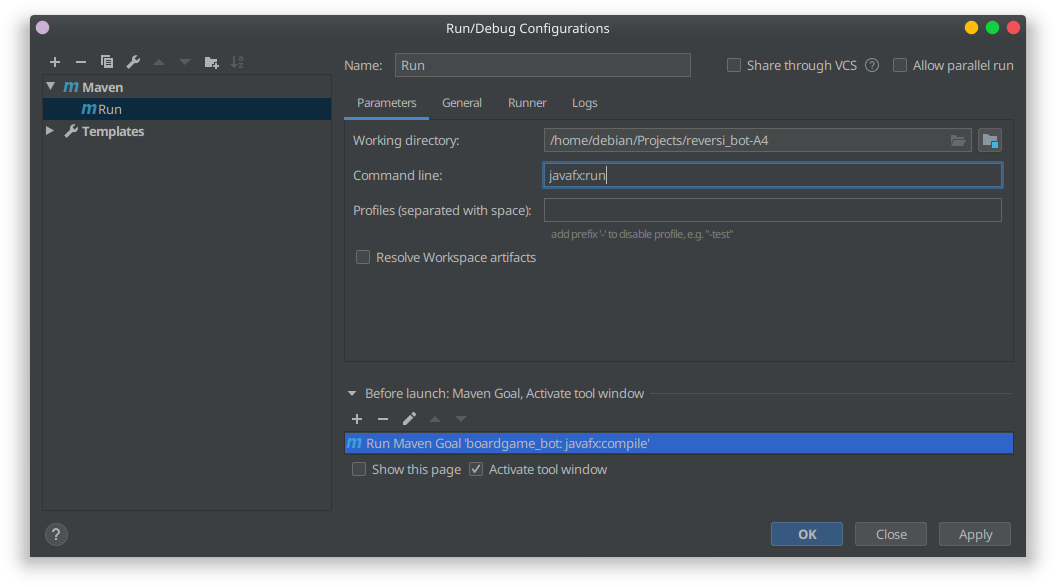
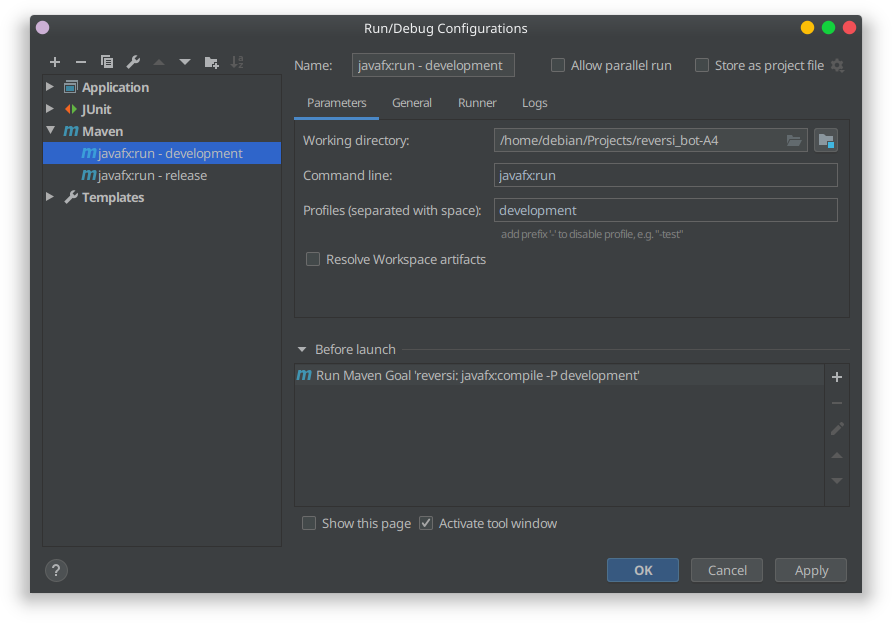
Update README.md

diff --git a/README.md b/README.md
@@ -15,8 +15,8 @@ git clone https://github.com/verluci/reversi_bot-A4.git
 Build the project using maven (using your favorite IDE), I suggest adding a run configuration to your IDE using the following maven commands:
 
 ```
-mvn javafx:compile
-mvn javafx:run
+mvn javafx:compile -P development
+mvn javafx:run -P development
 ```
 
 This might look like this in your IDE:
@@ -36,7 +36,7 @@ To package the project as a .jar perform the following maven command:
 > this can also be done inside of your IDE
 
 ```
-mvn package
+mvn package -P release
 ```
 
 ## Running
@@ -63,7 +63,7 @@ sudo apt install ocl-icd-opencl-dev
 To run the `.jar` either launch it using your file-manager or go to the location of the `.jar` in your terminal and run the following command:
 
 ```
-java -jar boardgame_bot.jar
+java -jar reversi-1.0-SNAPSHOT.jar
 ```
 
 ### Running on Windows
@@ -87,5 +87,33 @@ The optional OpenCL libraries should be shipped with your GPU drivers on Windows
 To run the `.jar` either launch it using Windows file-manager or go to the location of the `.jar` in your cmd and run the following command:
 
 ```
-java -jar boardgame_bot.jar
+java -jar reversi-1.0-SNAPSHOT.jar
 ```
+
+## Usage
+
+If you want to play against other players in a tournament use the headless packaged `.jar`-file as followed:
+
+```
+> java -jar reversi-1.0-SNAPSHOT-headless.jar -u USERNAME -h HOSTNAME -p PORT -t N_THREADS
+
+usage:
+ -gpu,--gpu <arg>      The device-index of the CL-device that is going to
+                       be performing the simulations.
+ -h,--hostname <arg>   The host-name or ip-address of the server.
+ -p,--port <arg>       The port of the server.
+ -t,--threads <arg>    The base amount of threads * 1024 this GPU is going
+                       to use. The maximum amount of threads that are
+                       going to be used is threads * 2048.
+ -u,--username <arg>   The player's username on the server.
+```
+
+If you want to play against the AI with a UI locally launch the non-headless variant using:
+
+> Make sure a game-server is running and you have configured the hostname and port correctly. If you want to play against the MCTS-GPU AI make sure to choose your graphics device in *Instellingen*
+
+```
+java -jar reversi-1.0-SNAPSHOT.jar
+```
+
+![](images/reversi-game-screenshot.png)
